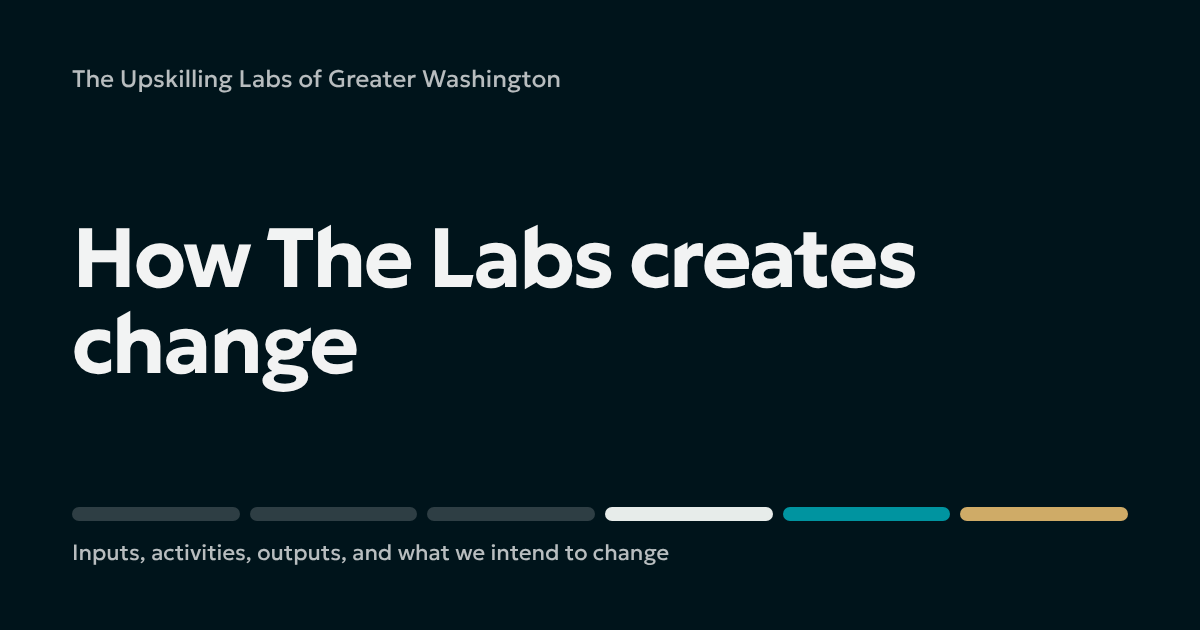
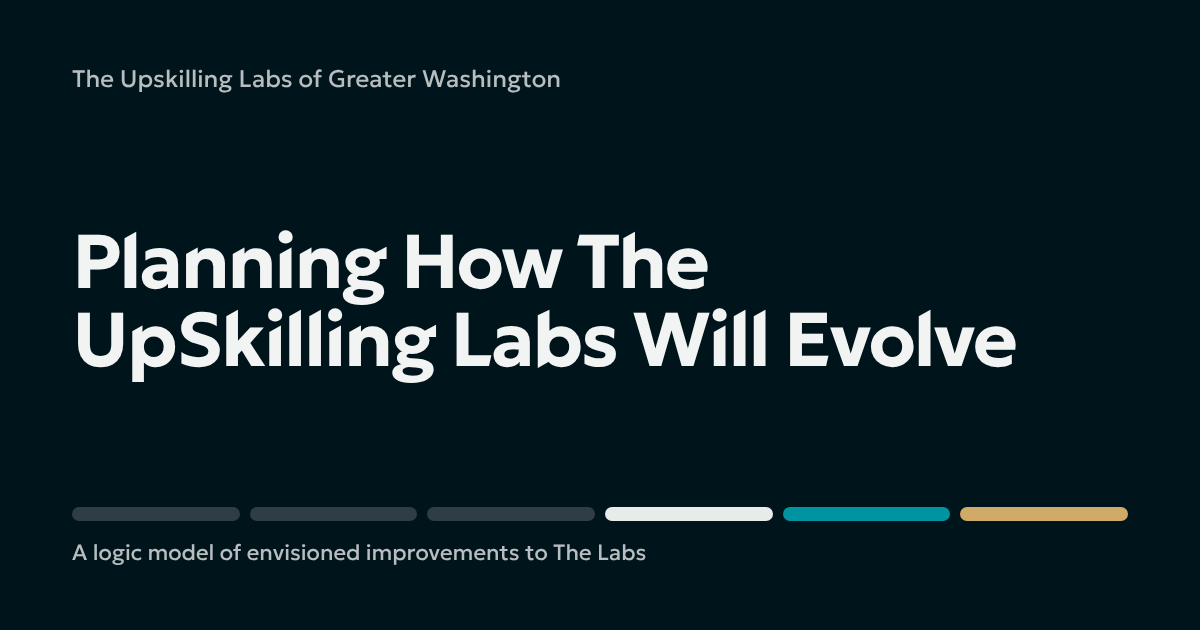
Outputs and indicators for the new focus, new preview title, relax column cap
Outputs now count what the builder-in-residence and maintainer activities
produce; indicators track the new short-, medium- and long-term outcomes.
Page title, link preview and share image use the new headline. Columns may
hold up to 10 items (PRD and update guide).

Claude-Session: https://claude.ai/code/session_01T3bfEBxzLEJQRZtpcoZt2W

Changed region(s): [[0.0617, 0.3619, 0.8633, 0.6333], [0.0617, 0.8444, 0.555, 0.9048]]

diff --git a/logic-model/index.html b/logic-model/index.html
@@ -3,11 +3,11 @@
 <head>
 <meta charset="utf-8">
 <meta name="viewport" content="width=device-width, initial-scale=1">
-<title>Logic Model</title>
-<meta name="description" content="How The Upskilling Labs creates change: inputs, activities, outputs, and short-, medium- and long-term outcomes across tools, content, volunteering and learning.">
+<title>UpSkilling Labs Logic Model</title>
+<meta name="description" content="A logic model of envisioned improvements to The UpSkilling Labs' structures and tools: inputs, activities, outputs, and short-, medium- and long-term outcomes.">
 <meta property="og:type" content="website">
-<meta property="og:title" content="How The Labs creates change">
-<meta property="og:description" content="The Upskilling Labs logic model: from volunteer time and open tools to skills people keep and a platform other communities can start from.">
+<meta property="og:title" content="Planning How The UpSkilling Labs Will Evolve">
+<meta property="og:description" content="Logic model view of envisioned improvements to The UpSkilling Labs program and growth: shared knowledge and adaptable structures for new communities, volunteers and learners.">
 <!-- MAINTAINER: og:image must be an absolute URL. Replace the path below with the full address once the page's domain is confirmed. -->
 <meta property="og:image" content="/logic-model/og.png">
 <meta property="og:image:width" content="1200">
@@ -179,7 +179,7 @@ footer p { color:inherit; margin:0 0 8px; }
 <header class="cover">
   <div class="wrap">
     <p class="lockup">The Upskilling Labs of Greater Washington</p>
-    <h1 id="hero-title">How The Labs creates change</h1>
+    <h1 id="hero-title">Planning How The UpSkilling Labs Will Evolve</h1>
     <p class="summary" id="hero-summary"></p>
     <p class="how" id="hero-how"></p>
   </div>

diff --git a/docs/PRD.md b/docs/PRD.md
@@ -73,7 +73,7 @@ Priority uses MoSCoW: Must (launch blocker), Should (expected at launch), Could 
 
 Every statement on the page must be one the organization can support. The concept draft contains placeholders and sample indicators that the team has to confirm or replace before launch.
 
-- **Structure:** each logic model column holds 4 to 6 items, each one sentence, in plain language with no jargon.
+- **Structure:** each logic model column holds 4 to 10 items, each one sentence, in plain language with no jargon.
 - **Time horizons:** short term is within 12 months, medium term is 1 to 3 years, long term is 3 or more years. [Confirm these ranges.]
 - **Sourcing:** inputs, activities and outputs come from current program records. Outcomes come from the theory of change workshop below. Anything not yet true is written as an intended result, never a claim.
 - **Numbers:** all figures such as [#] participants or [X]% targets are filled in only from real data or agreed targets. No invented statistics.
@@ -139,7 +139,7 @@ Launch is the milestone that matters most; the three gates before it keep unsupp
 |---|---|---|
 | Outcomes read as promises the Labs can't yet evidence | Medium | Word long-term outcomes as intended results; tie each to an indicator |
 | Content goes stale as programs change | High | Quarterly review with a named owner and a visible last-updated date |
-| Too many items make the model hard to scan | Medium | Cap each column at 6 items; move detail to linked pages |
+| Too many items make the model hard to scan | Medium | Cap each column at 10 items, grouped by role where it helps; move detail to linked pages |
 | Team disagrees on outcomes or time horizons | Medium | Run the working session before copy is final |
 | Volunteer capacity limits who can maintain the page | Medium | Keep content in one simple file with written update steps |
 

diff --git a/logic-model/README.md b/logic-model/README.md
@@ -15,7 +15,7 @@ If the page shows "The model could not load" after a change, a comma or quote is
 
 ## Rules for content (from the PRD)
 
-- Each column holds 4 to 6 items, one plain sentence each.
+- Each column holds 4 to 10 items, one plain sentence each. A long column can be split into labeled `groups`, as Activities is.
 - Each item has one or more `tags`: `tools`, `content`, `volunteering`, `learning`.
 - Inputs, activities and outputs come from program records. Outcomes come from the working session.
 - Outcomes are written as intended results, never as claims.
